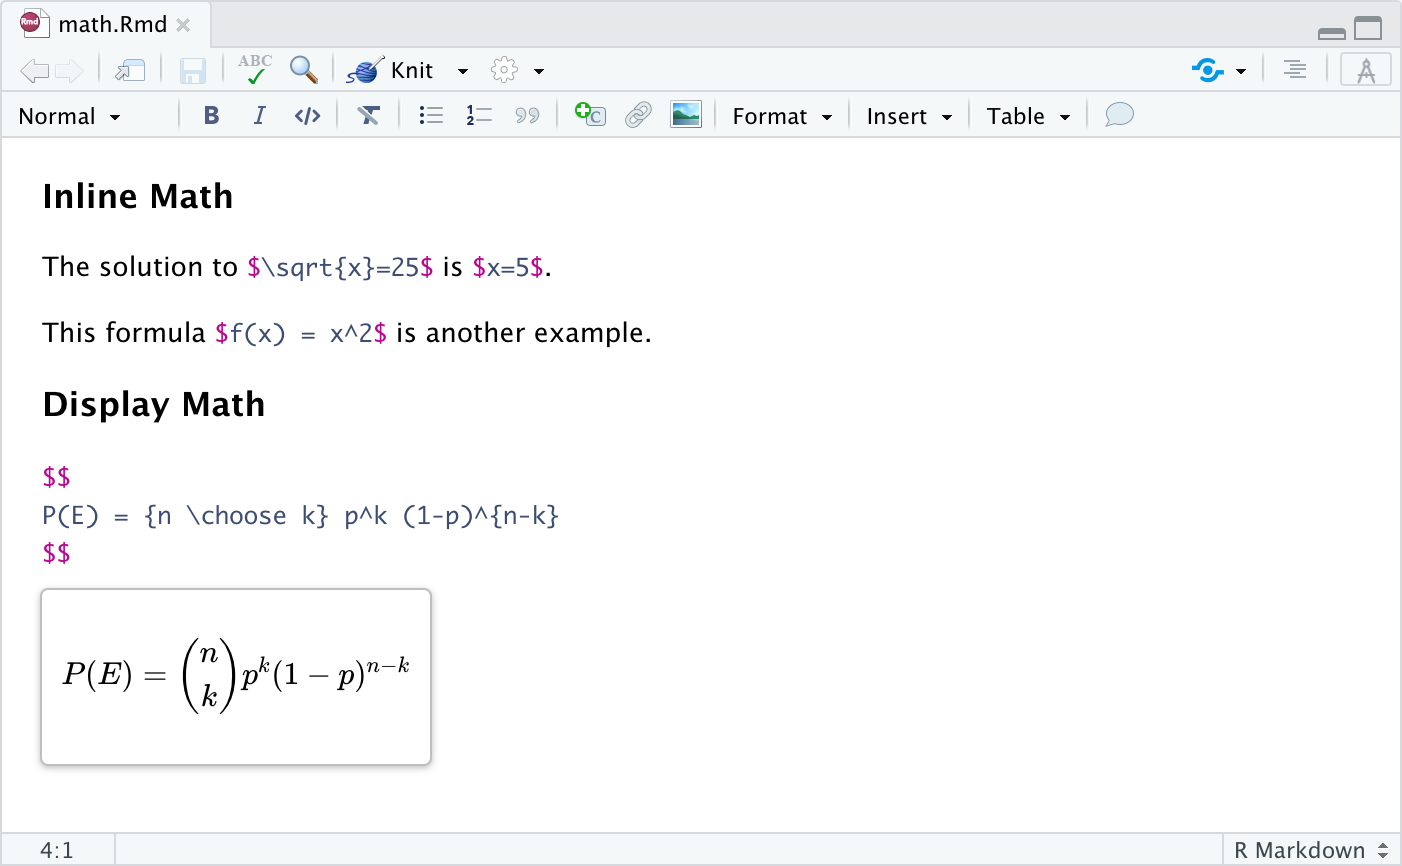
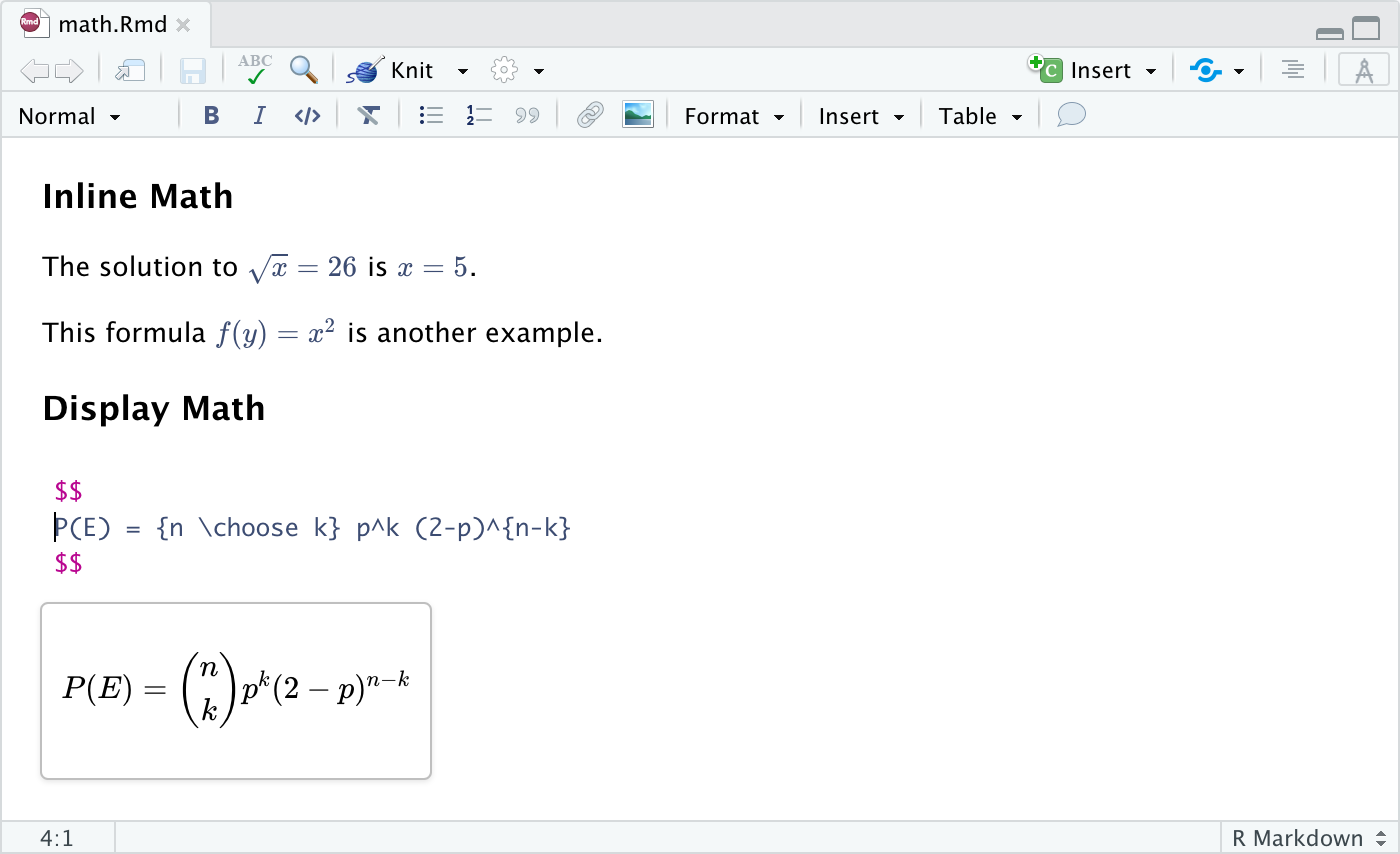
update docs on equations

diff --git a/docs/technical.md b/docs/technical.md
@@ -59,11 +59,11 @@ You can include footnotes using the **Insert -\> Footnote** command. Footnote ed
 
 ## Equations
 
-LaTeX equations are authored using standard Pandoc markdown syntax (the editor will automatically recognize the syntax and highlight the equations as math). For example, here's some inline and display math:
+LaTeX equations are authored using standard Pandoc markdown syntax (the editor will automatically recognize the syntax and treat the equation as math). When you aren't directly editing an equation it will appear as rendered math:
 
 <img src="images/visual-editing-math.png" width="700"/>
 
-As you edit a LaTeX equation, you'll see a fully rendered preview of it below.
+As shown above, when you select an equation with the keyboard or mouse you can edit the equation's LaTeX. A preview of the equation will be shown below it as you type.
 
 ## Embedded Code
 
